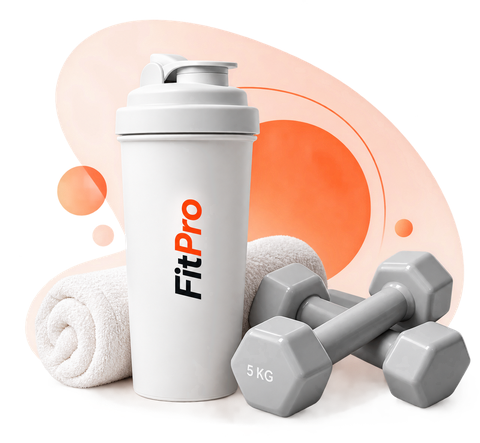
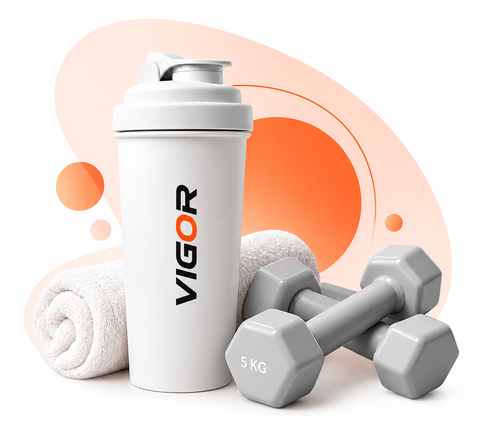
Add files via upload

diff --git a/index.html b/index.html
@@ -7,6 +7,7 @@
 <link rel="preconnect" href="https://fonts.googleapis.com">
 <link href="https://fonts.googleapis.com/css2?family=Oswald:wght@500;600;700&family=Inter:wght@400;500;600;700;800&family=Plus+Jakarta+Sans:wght@500;600;700;800&family=Roboto+Mono:wght@400;500;700&display=swap" rel="stylesheet">
 <script src="config.js"></script>
+<script src="brand.js"></script>
 <script src="https://cdn.jsdelivr.net/npm/@supabase/supabase-js@2.45.4/dist/umd/supabase.min.js"></script>
 <script src="https://cdnjs.cloudflare.com/ajax/libs/Chart.js/4.4.0/chart.umd.min.js"></script>
 <script src="https://cdnjs.cloudflare.com/ajax/libs/xlsx/0.18.5/xlsx.full.min.js"></script>
@@ -16,7 +17,7 @@
   <meta name="mobile-web-app-capable" content="yes">
   <meta name="apple-mobile-web-app-capable" content="yes">
   <meta name="apple-mobile-web-app-status-bar-style" content="black-translucent">
-  <meta name="apple-mobile-web-app-title" content="FitPro">
+  <meta name="apple-mobile-web-app-title" content="VIGOR">
   <link rel="apple-touch-icon" href="apple-touch-icon.png">
   <link rel="icon" type="image/png" sizes="32x32" href="favicon-32.png">
 </head>
@@ -30,14 +31,14 @@ setTimeout(function(){ document.documentElement.classList.remove("avvio"); }, 60
   <div style="text-align:center; font-family:var(--font-display); color:#535a65;">
     <div style="width:34px; height:34px; margin:0 auto 12px; border:3px solid #d7dbe1;
       border-top-color:#dd4526; border-radius:50%; animation:giraAvvio .8s linear infinite;"></div>
-    <div style="font-size:13px; letter-spacing:.08em;">FITPRO</div>
+    <div style="font-size:13px; letter-spacing:.08em;" id="avvioTestoBrand">VIGOR</div>
   </div>
 </div>
 
 
 <div id="lockScreen" style="display:none;">
   <div class="lock-inner">
-    <div class="lock-logo"><span class="lock-dot"></span>FitPro</div>
+    <div class="lock-logo"><span class="lock-dot"></span>VIGOR</div>
     <h1>App bloccata</h1>
     <div class="sub">Questa app è a invito. Inserisci la password d'ingresso per vedere i profili.</div>
     <label>Password</label>
@@ -61,7 +62,7 @@ setTimeout(function(){ document.documentElement.classList.remove("avvio"); }, 60
 
 <div id="cloudGate" style="display:none;">
   <div class="lock-inner">
-    <div class="lock-logo"><span class="lock-dot"></span>FitPro</div>
+    <div class="lock-logo"><span class="lock-dot"></span>VIGOR</div>
 
     <div id="cloudAccedi">
       <h1>Accedi</h1>
@@ -232,7 +233,7 @@ setTimeout(function(){ document.documentElement.classList.remove("avvio"); }, 60
 <div id="homeScreen" style="display:none;">
   <div class="settings-inner home-inner">
     <div class="home-topbar">
-      <div class="home-logo">Fit<span class="home-logo-accent">Pro</span></div>
+      <div class="home-logo">VIG<span class="home-logo-accent">OR</span></div>
     </div>
 
     <div class="home-hero-row">
@@ -1232,6 +1233,28 @@ function formatDateLungo(iso){
   return `${parseInt(d,10)} ${MESI[parseInt(m,10)-1]} ${y}`;
 }
 function escapeAttr(s){ return String(s==null ? "" : s).replace(/"/g,'&quot;'); }
+
+// Applica il nome/logo da brand.js a tutti i punti dove compare — se manca il
+// file, o manca un valore, resta quello scritto qui sotto di riserva.
+function applicaBrand(){
+  const b = window.BRAND_CONFIG || {};
+  const nome = b.nome || "VIGOR";
+  const parte1 = b.parte1 != null ? b.parte1 : "VIG";
+  const parte2 = b.parte2 != null ? b.parte2 : "OR";
+
+  document.querySelectorAll('.lock-logo').forEach(el=>{
+    const punto = el.querySelector('.lock-dot');
+    el.textContent = nome;
+    if(punto) el.prepend(punto);
+  });
+  const homeLogo = document.querySelector('.home-logo');
+  if(homeLogo) homeLogo.innerHTML = `${escapeAttr(parte1)}<span class="home-logo-accent">${escapeAttr(parte2)}</span>`;
+  const avvio = document.getElementById('avvioTestoBrand');
+  if(avvio) avvio.textContent = nome;
+  const metaTitolo = document.querySelector('meta[name="apple-mobile-web-app-title"]');
+  if(metaTitolo) metaTitolo.setAttribute('content', nome);
+}
+applicaBrand();
 
 function toTitleCase(s){
   return s.replace(/\w\S*/g, t => t.charAt(0).toUpperCase() + t.slice(1));
@@ -3819,7 +3842,7 @@ function scaricaBackup(){
   const a = document.createElement('a');
   a.href = url;
   const chi = (loggedInProfile()||{}).name || 'dati';
-  a.download = `fitpro-${chi.toLowerCase().replace(/[^a-z0-9]+/g,'-')}-${new Date().toISOString().slice(0,10)}.json`;
+  a.download = `${((window.BRAND_CONFIG&&window.BRAND_CONFIG.nome)||'vigor').toLowerCase()}-${chi.toLowerCase().replace(/[^a-z0-9]+/g,'-')}-${new Date().toISOString().slice(0,10)}.json`;
   a.click();
   setTimeout(()=>URL.revokeObjectURL(url), 1000);
   state.ultimoBackup = new Date().toISOString();

diff --git a/brand.js b/brand.js
@@ -1,0 +1,20 @@
+// ============================================================
+// Tutto quello che riguarda il LOGO/nome dell'app, in un unico posto.
+// Per cambiarlo basta modificare i valori qui sotto — non serve toccare
+// nient'altro nel resto dei file.
+//
+// nome   -> usato per intero: schermata di caricamento, schermo di blocco,
+//           accesso, nome mostrato sotto l'icona quando aggiungi l'app alla
+//           schermata Home, nome dei file di backup scaricati.
+// parte1 -> logo grande nella Home: la parte scritta nel colore normale.
+// parte2 -> logo grande nella Home: la parte scritta nel colore acceso
+//           (quello impostato in style.css come --accent).
+//
+// "parte1 + parte2" insieme devono formare il nome per intero, altrimenti il
+// logo nella Home non corrisponderà più al nome usato nelle altre schermate.
+// ============================================================
+window.BRAND_CONFIG = {
+  nome:   "VIGOR",
+  parte1: "VIG",
+  parte2: "OR"
+};

diff --git a/style.css b/style.css
@@ -128,8 +128,8 @@
   .home-head{flex:1; min-width:0;}
   .home-greeting{font-family:var(--font-display); font-size:20px; line-height:1.25; margin:0 0 5px;}
   .home-tagline{font-size:12px; color:var(--text-dim); line-height:1.4;}
-  .home-hero{position:relative; flex:0 0 auto; width:132px;}
-  .home-hero-photo{display:block; width:100%; height:auto;}
+  .home-hero{position:relative; flex:0 0 auto; width:152px;}
+  .home-hero-photo{display:block; width:100%; height:auto; border-radius:14px;}
 
   .home-goal-card{
     display:flex; align-items:center; justify-content:space-between; gap:12px; background:var(--surface);

diff --git a/sw.js b/sw.js
@@ -4,7 +4,7 @@
 // Quando pubblichi una modifica, alza il numero di VERSIONE qui sotto:
 // l'app se ne accorge da sola e propone di aggiornarsi.
 // ============================================================
-const VERSIONE = "fitpro-v51";
+const VERSIONE = "vigor-v53";
 
 const DA_TENERE = [
   "./",
